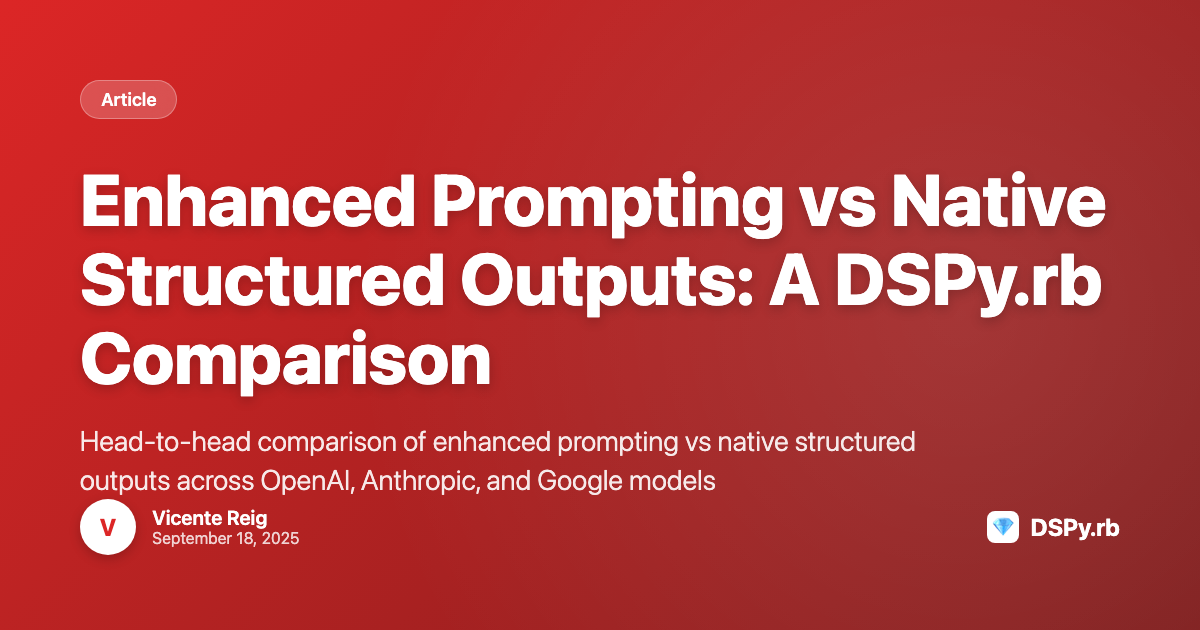
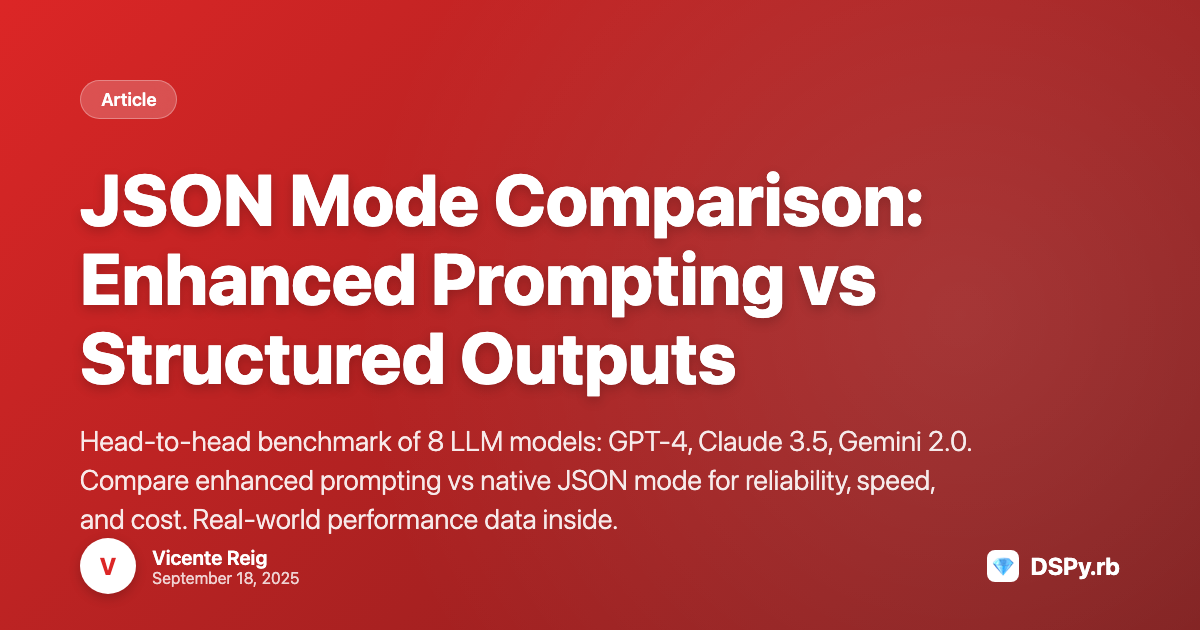
fix(docs): improve meta titles and descriptions for SEO
Optimize meta content across 9 documentation pages to improve CTR:

Priority 1 - High-impression pages:
- Homepage: Add Stanford authority signal, expand description
- TOON vs CSV: Match "nested data" search intent
- Prompt Optimization: Add MIPROv2 & GEPA keywords
- GEPA Optimizer: Minor refinement for clarity
- JSON Modes Comparison: Add benchmark teaser

Priority 2 - Core documentation:
- Core Concepts Index: Add component names to title
- Signatures: Add "Type-Safe LLM Interfaces" keywords
- Modules: Add "Composable LLM Components" positioning
- Predictors: List predictor types in title

Changes follow SEO best practices:
- Titles: 50-60 characters
- Descriptions: 150-220 characters
- Power words: Automatic, Type-safe, Production-ready
- Search intent matching for high-impression queries

🤖 Generated with [Claude Code](https://claude.com/claude-code)

Changed region(s): [[0.0617, 0.2714, 0.925, 0.6333], [0.0617, 0.6635, 0.8017, 0.9651], [0.8017, 0.8143, 0.925, 0.9349]]

diff --git a/docs/src/_articles/toon-vs-csv-nested-relationships.md b/docs/src/_articles/toon-vs-csv-nested-relationships.md
@@ -1,8 +1,8 @@
 ---
 layout: blog
-title: "What TOON Gets That CSV Doesn’t for LLM Payloads"
+title: "TOON vs CSV for LLM Prompts: Why Nested Data Needs a New Format"
 date: 2025-11-15
-description: "Token-Oriented Object Notation keeps your nested Sorbet structs intact—something flat CSV rows simply can’t do when you prompt large language models."
+description: "CSV breaks when you need nested relationships in LLM prompts. TOON (Token-Oriented Object Notation) preserves Ruby structs, arrays, and enums while cutting token costs. See the benchmark."
 author: "Vicente Reig Rincon de Arellano"
 canonical_url: "https://oss.vicente.services/dspy.rb/blog/articles/toon-vs-csv-nested-relationships/"
 image: /images/og/toon-vs-csv-nested-relationships.png

diff --git a/docs/src/_articles/json-modes-comparison.md b/docs/src/_articles/json-modes-comparison.md
@@ -1,8 +1,8 @@
 ---
 layout: blog
-title: "Enhanced Prompting vs Native Structured Outputs: A DSPy.rb Comparison"
+title: "JSON Mode Comparison: Enhanced Prompting vs Structured Outputs"
 date: 2025-09-18
-description: "Head-to-head comparison of enhanced prompting vs native structured outputs across OpenAI, Anthropic, and Google models"
+description: "Head-to-head benchmark of 8 LLM models: GPT-4, Claude 3.5, Gemini 2.0. Compare enhanced prompting vs native JSON mode for reliability, speed, and cost. Real-world performance data inside."
 author: "Vicente Reig"
 canonical_url: "https://oss.vicente.services/dspy.rb/blog/articles/json-modes-comparison/"
 image: /images/og/json-modes-comparison.png

diff --git a/docs/src/optimization/gepa.md b/docs/src/optimization/gepa.md
@@ -1,8 +1,8 @@
 ---
 layout: docs
-title: "GEPA Ruby: Reflective Prompt Evolution in Practice"
+title: "GEPA Optimizer for Ruby — Reflective Prompt Evolution"
 name: GEPA Optimizer
-description: "Learn how to optimize Ruby predictors with GEPA, configure reflection feedback, and ship production-ready prompts using the ADE GEPA demo as your guide."
+description: "Implement GEPA (Reflective Prompt Evolution) in Ruby. Step-by-step guide: configure reflection feedback, define evaluation metrics, and ship optimized prompts. Includes working ADE demo code."
 breadcrumb:
 - name: Optimization
   url: "/optimization/"

diff --git a/docs/src/index.md b/docs/src/index.md
@@ -1,7 +1,7 @@
 ---
 layout: home
-title: DSPy.rb - Program LLMs, Don't Prompt Them
-description: Write modular, testable Ruby code instead of tweaking prompts
+title: "Stanford's DSPy Framework for Ruby | LLM Programming"
+description: "The Ruby port of Stanford's DSPy framework. Build type-safe, testable LLM applications with Sorbet. Automatic prompt optimization, structured outputs, and MIPROv2 support. Get started in minutes."
 date: 2025-06-28 00:00:00 +0000
 last_modified_at: 2025-09-01 00:00:00 +0000
 ---

diff --git a/docs/src/optimization/prompt-optimization.md b/docs/src/optimization/prompt-optimization.md
@@ -1,7 +1,8 @@
 ---
 layout: docs
+title: "Automatic Prompt Optimization in Ruby | MIPROv2 & GEPA"
 name: Prompt Optimization
-description: Programmatically optimize prompts for better performance
+description: "Stop guessing at prompts. DSPy.rb optimizes them automatically using MIPROv2 and GEPA algorithms. Define your metric, provide examples, and let the optimizer find the best instructions. Works with OpenAI, Anthropic, and local models."
 breadcrumb:
 - name: Optimization
   url: "/optimization/"

diff --git a/docs/src/core-concepts/index.md b/docs/src/core-concepts/index.md
@@ -1,7 +1,7 @@
 ---
 layout: docs
-title: Core Concepts
-description: Master the fundamental building blocks of DSPy.rb
+title: "DSPy.rb Core Concepts: Signatures, Modules, and Predictors"
+description: "Learn the building blocks of DSPy.rb: type-safe Signatures, composable Modules, and production-ready Predictors. Understand how they work together to build reliable LLM applications."
 date: 2025-07-10 00:00:00 +0000
 last_modified_at: 2025-08-13 00:00:00 +0000
 ---

diff --git a/docs/src/core-concepts/predictors.md b/docs/src/core-concepts/predictors.md
@@ -1,7 +1,8 @@
 ---
 layout: docs
+title: "DSPy Predictors: Predict, ChainOfThought, and ReAct"
 name: Predictors
-description: Execution engines that generate structured results using language models
+description: "Master DSPy.rb's execution engines: Predict for simple calls, ChainOfThought for reasoning, ReAct for tool use. Each returns typed Ruby objects with full observability and error handling."
 breadcrumb:
 - name: Core Concepts
   url: "/core-concepts/"

diff --git a/docs/src/core-concepts/signatures.md b/docs/src/core-concepts/signatures.md
@@ -1,7 +1,8 @@
 ---
 layout: docs
+title: "DSPy Signatures: Type-Safe LLM Interfaces in Ruby"
 name: Signatures
-description: Define interfaces between your application and language models
+description: "Define type-safe contracts between your Ruby code and LLMs using Sorbet structs. Input/output validation, automatic prompt generation, and IDE autocomplete support. No more string parsing."
 breadcrumb:
 - name: Core Concepts
   url: "/core-concepts/"

diff --git a/docs/src/core-concepts/modules.md b/docs/src/core-concepts/modules.md
@@ -1,7 +1,8 @@
 ---
 layout: docs
+title: "DSPy Modules: Composable LLM Components in Ruby"
 name: Modules
-description: Build reusable LLM components with DSPy.rb modules
+description: "Build reusable LLM components that compose like regular Ruby code. Chain operations, share state, and create complex workflows. Includes Predict, ChainOfThought, ReAct, and custom modules."
 breadcrumb:
 - name: Core Concepts
   url: "/core-concepts/"
